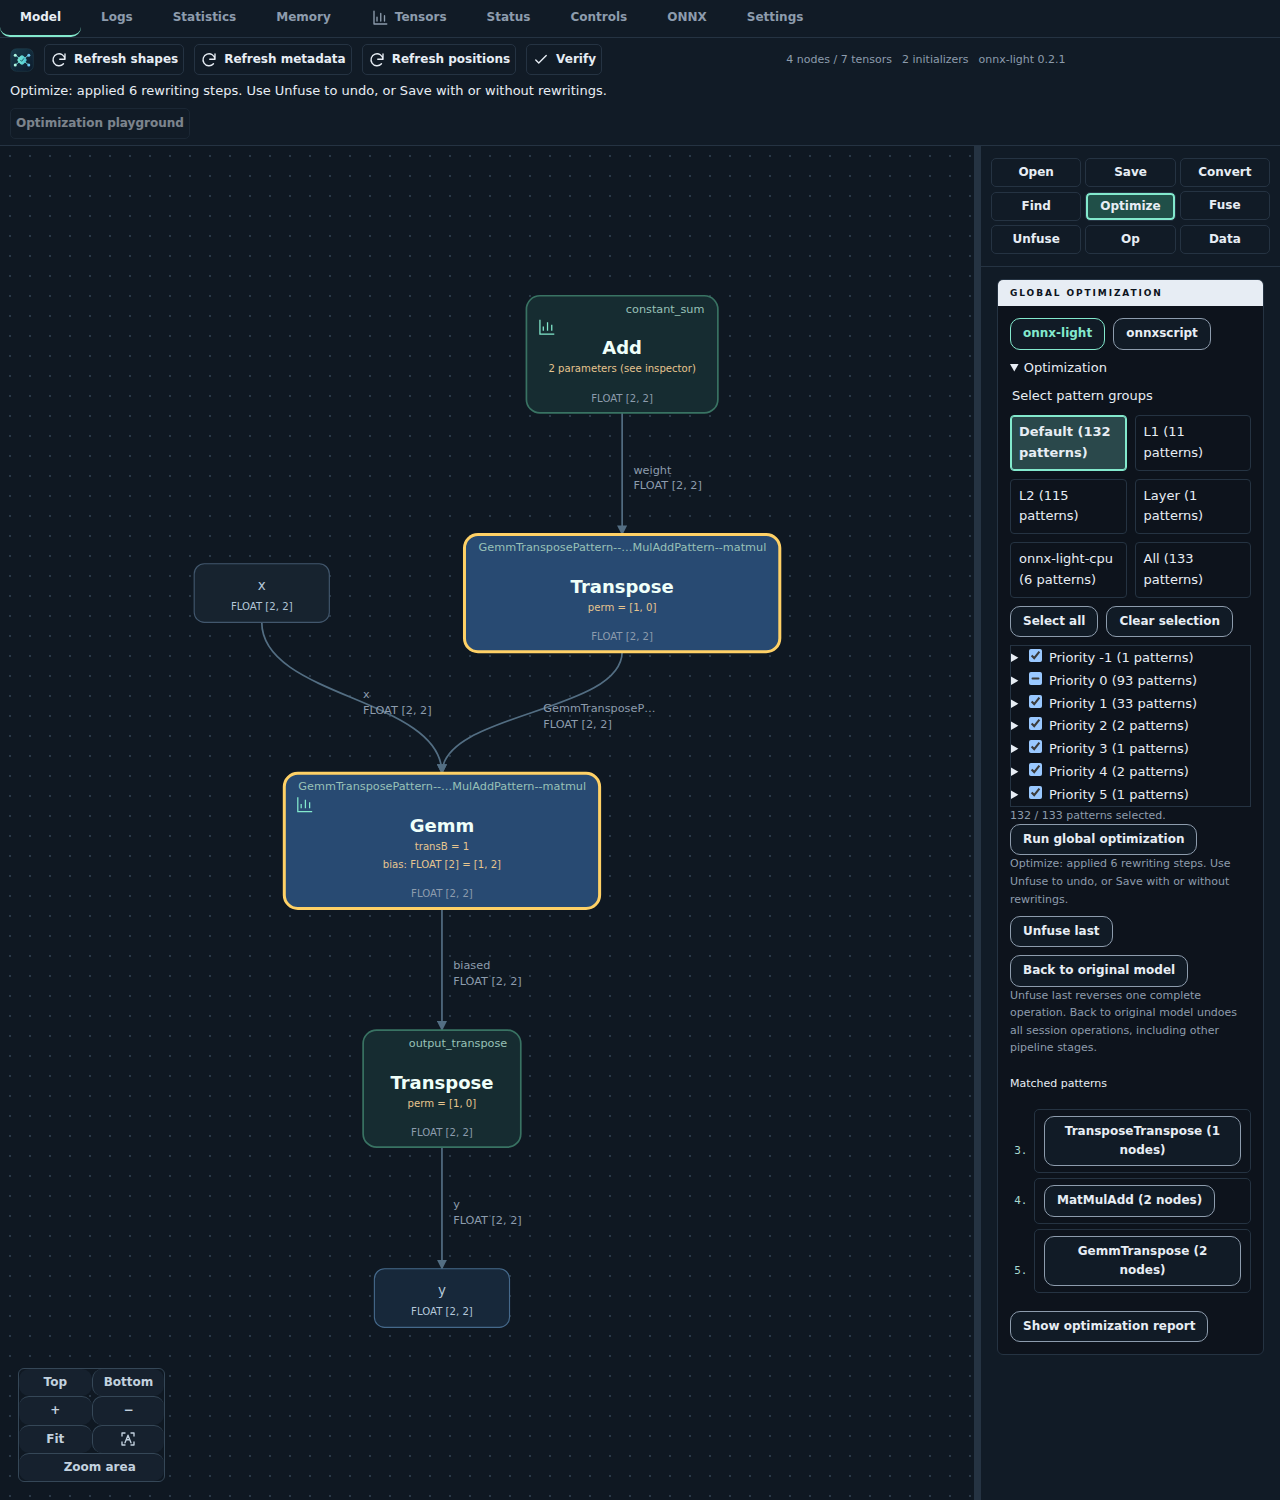
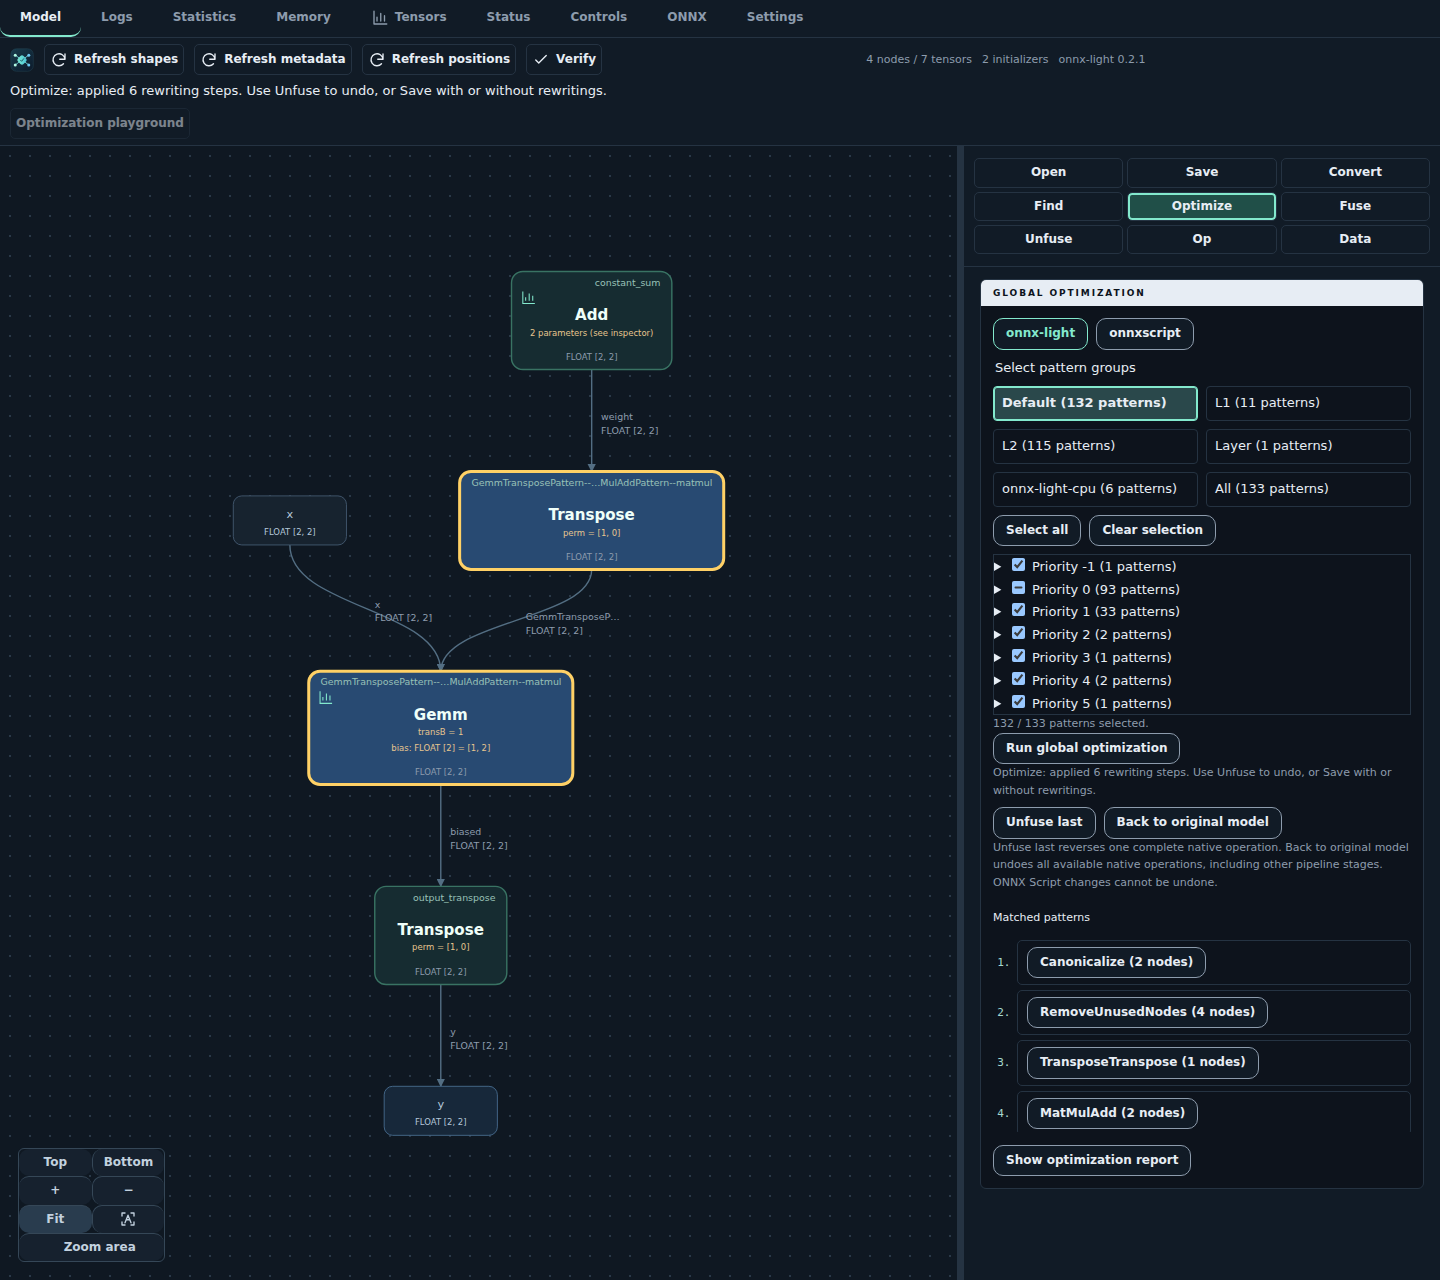
Refresh optimizer and fusion documentation screenshots (#229)
Capture the current webview against real ONNX Script and native optimization results, document inline Python output and the native undo boundary, and add the native matching workflow screenshot.

diff --git a/docs/features/fusion_patterns.rst b/docs/features/fusion_patterns.rst
@@ -71,6 +71,12 @@ refreshed against the new operators. Select patterns and run matching again to
 find further fusions; obsolete candidates are discarded.
 Graph replacement or navigation invalidates the preview.
 
+.. figure:: ../_static/feature-fusion-patterns.png
+   :alt: Fuse panel showing two checked TransposeTranspose candidates, before and after operators, and Fuse selected.
+   :width: 100%
+
+   Run matching, inspect candidates, then fuse the selected matches.
+
 Why does a pattern not match?
 -----------------------------
 
@@ -112,6 +118,10 @@ workspace, then click **Run global optimization**. This backend accepts a single
 standard ONNX model, not a ``PipelineProto``. Native pattern selections
 are preserved when switching backends, but do not configure ONNX Script.
 Python errors leave the displayed model unchanged. Save a copy to keep the result.
+After completion, Python output appears directly below **Run global optimization**
+and in **Logs**. It includes main-graph node and ``Identity`` counts at input,
+after optimization and after fusion. A new run or model replacement clears the
+inline output; switching backends hides it without discarding it.
 Native matching diagnostics and timing reports apply only to **onnx-light**.
 Changed Python results clear earlier native undo history and cannot be undone
 with **Unfuse**. Later native edits can still be undone, back to the Python result.
@@ -120,10 +130,15 @@ rewriting scenarios; saving with rewritings includes only native edits made
 after the Python result.
 
 .. figure:: ../_static/feature-optimizer-backends.png
-   :alt: Optimize panel with onnx-light and onnxscript backend buttons and the Python requirements.
+   :alt: Optimize panel with Python output reporting three nodes and two Identity nodes below Run, and Unfuse disabled.
    :width: 100%
 
-   Select ONNX Script to run Python optimization and fusion instead of native patterns.
+   Read ONNX Script output below Run; no undo checkpoint is created.
+
+On :download:`fusion.onnx <../../test/models/fusion.onnx>`, ONNX Script replaces
+four ``Transpose`` nodes with two ``Identity`` nodes: five operators become three.
+These identities preserve the distinct graph outputs ``a`` and ``b``; their
+presence does not mean optimization failed.
 
 .. figure:: ../_static/feature-pattern-groups.png
    :alt: Optimize panel showing Default, Layer and onnx-light-cpu tiles selected together.
@@ -176,8 +191,10 @@ Closing Fuse, navigating or replacing the graph discards previews.
 Each native optimization or applied pass is one **Unfuse** operation.
 With **onnx-light** selected, Optimize also offers **Unfuse last** and
 **Back to original model**. Undo one complete operation at a time, or restore
-the original model by undoing all session operations, including other pipeline
-stages. Optimize stays open so you can select patterns and optimize again.
+the native baseline by undoing all available native operations, including other
+pipeline stages. After ONNX Script changes the model, this baseline is the Python
+result, not the model before Python optimization.
+Optimize stays open so you can select patterns and optimize again.
 Applied patterns are listed in the optimization results and in **Unfuse**;
 click an entry to highlight its surviving result nodes. Folding a node entirely
 into an initializer leaves no operator to select.

diff --git a/docs/features.rst b/docs/features.rst
@@ -215,13 +215,16 @@ In **Optimize**, choose **onnx-light** for native pattern selection or
 **onnxscript** for Python optimization and fusion. ONNX Script requires a
 trusted workspace and ``onnx`` and ``onnxscript`` in the configured Python
 environment. Both operate on the current in-memory model, not the source file.
+ONNX Script output appears below **Run global optimization** after completion,
+including node and ``Identity`` counts before and after each stage.
+Changed Python results cannot be unfused and clear earlier native undo history.
 See :doc:`features/fusion_patterns`.
 
 .. figure:: _static/feature-optimizer-backends.png
-   :alt: Optimize panel with onnx-light and onnxscript buttons and Python requirements.
+   :alt: Optimize panel with Python output reporting three nodes and two Identity nodes below Run, and Unfuse disabled.
    :width: 100%
 
-   Choose the optimizer before running it.
+   Read Python output without leaving Optimize.
 
 With **onnx-light**, inspect **Matched patterns**, undo the last operation or
 choose **Back to original model** without leaving Optimize.
@@ -247,6 +250,19 @@ Choosing groups alone does not transform or save the model.
    :width: 100%
 
    Named pattern sets are separate from optimization priorities.
+
+Native fusion matching
+^^^^^^^^^^^^^^^^^^^^^^
+
+In **Fuse**, select patterns and click **Run Matching**. Inspect the **Before**
+and **After** candidates, check compatible matches, then click **Fuse selected**.
+Previewing does not modify the graph. See :doc:`features/fusion_patterns`.
+
+.. figure:: _static/feature-fusion-patterns.png
+   :alt: Fuse panel with two selected TransposeTranspose candidates, before and after operators, and Fuse selected.
+   :width: 100%
+
+   Inspect and select native matches before applying them.
 
 Diagnostics and help
 ^^^^^^^^^^^^^^^^^^^^

diff --git a/docs/features/action_logs.rst b/docs/features/action_logs.rst
@@ -14,6 +14,11 @@ recreated. Initial loading failures also appear there. The
 **ONNX Light Viewer: Show Logs** command selects the viewer's **Logs** tab,
 or opens an empty viewer if none exists.
 
+ONNX Script optimization records captured Python output in its completed log
+entry, including main-graph node and ``Identity`` counts before and after each
+stage. The same output appears below **Run global optimization** in **Optimize**;
+see :doc:`fusion_patterns`.
+
 Shape and metadata algorithms first call onnx-light's structural ``VerifyModel``.
 Invalid graphs can still be inspected, but verification failures prevent these
 algorithms from running. Errors identify the failing native algorithm.
